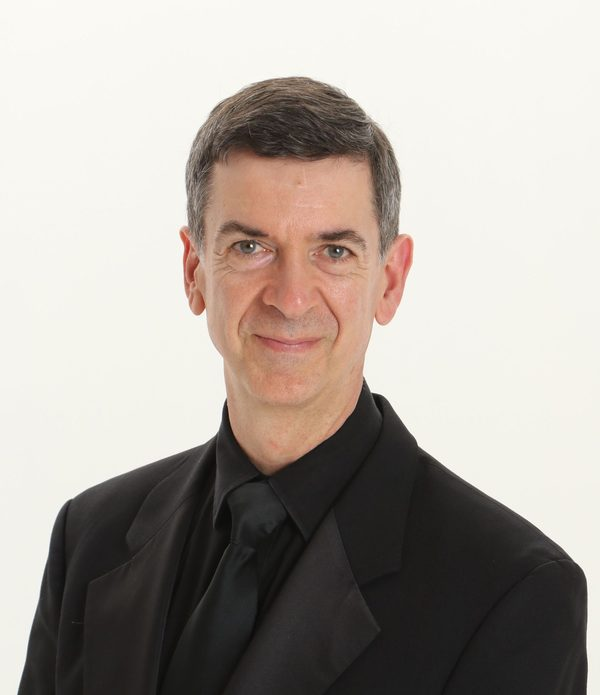
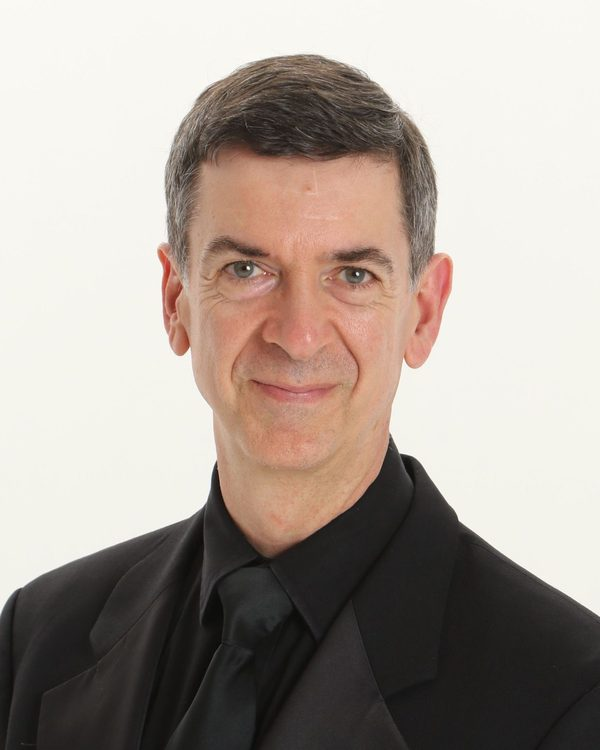
About page: matched 4:5 headshots for Chris and Margaret (#32)
Claude-Session: https://claude.ai/code/session_01LuDoopjZpYBXNdmNXvLcmv

diff --git a/index.html b/index.html
@@ -12,7 +12,7 @@
 <link rel="icon" type="image/svg+xml" href="favicon.svg">
 <link rel="stylesheet" href="https://fonts.googleapis.com/css2?family=DM+Serif+Display&family=Playfair+Display:wght@600;700&family=Bricolage+Grotesque:opsz,wght@12..96,500;12..96,700&family=Atkinson+Hyperlegible:ital,wght@0,400;0,700;1,400&display=swap">
 <style>
-.bio{display:flex;gap:20px;align-items:flex-start}.bio img{width:180px;height:auto;flex:none;border-radius:8px}.bio p{margin-top:0}@media (max-width:560px){.bio{flex-direction:column}.bio img{width:160px}}
+.bio{display:flex;gap:20px;align-items:flex-start}.bio img{width:180px;height:auto;aspect-ratio:4/5;object-fit:cover;flex:none;border-radius:8px}.bio p{margin-top:0}@media (max-width:560px){.bio{flex-direction:column}.bio img{width:160px}}
 /* Layout: sticky top bar, centered 1120px column, card grids that collapse to one column on phones */
 :root{
   --bg:#F4F6F3; --surface:#FFFFFF; --ink:#18231F; --muted:#56635D; --line:#DCE2DD;
@@ -485,8 +485,8 @@ function about(){
   app.innerHTML=`<h1>About</h1>
   <div style="display:grid;gap:16px;max-width:44em;margin-top:16px">
   <p class="lead muted">StringEducation.org shares free, classroom-tested resources for string orchestra teachers, many of them companions to <i>Music Theory for the Successful String Musician</i> and the <i>Habits of a Successful String Musician</i> series from GIA Publications.</p>
-  <h2 style="margin-top:16px">Christopher Selby</h2><div class="bio"><img src="files/about/christopher-selby.jpg" width="600" height="695" alt="Dr. Christopher Selby" loading="lazy"><p>Dr. Christopher Selby is the author of <i>Habits of a Successful Orchestra Director</i> and <i>Music Theory for the Successful String Musician</i>, and lead author of the <i>Habits of a Successful String Musician</i> method series, published by GIA. He received ASTA’s Elizabeth A. H. Green Award and has presented clinics and sessions across the United States, Canada and Australia. A sought-after conductor of regional and all-state orchestras nationwide, he directs the high school orchestras at the Charleston County School of the Arts in South Carolina. His orchestras have performed at the Midwest Clinic multiple times and have twice been named Grand Champion at ASTA’s National Orchestra Festival. He holds a music education degree from the Hartt School and master’s and doctoral degrees in orchestral conducting from the University of South Carolina.</p></div>
-  <h2 style="margin-top:16px">Margaret Selby</h2><div class="bio"><img src="files/about/margaret-selby.jpg" width="600" height="754" alt="Mrs. Margaret Selby" loading="lazy"><p>Margaret Selby is the orchestra director at Laing Middle School in Charleston, SC. She is coauthor of the <i>Habits of a Successful Young String Musician</i> Books 1 and 2, and a contributing author of <i>Rehearsing the Middle School Orchestra</i>. Mrs. Selby has conducted for the Interlochen Arts Camp, All-State, Region, and Honor Orchestras, and judged the National Orchestra Festival. She has presented for conferences including the Midwest Clinic, ASTA, many state conferences and was the 2022 TMEA Featured Clinician for the Orchestra Division.</p></div>
+  <h2 style="margin-top:16px">Christopher Selby</h2><div class="bio"><img src="files/about/christopher-selby.jpg" width="600" height="750" alt="Dr. Christopher Selby" loading="lazy"><p>Dr. Christopher Selby is the author of <i>Habits of a Successful Orchestra Director</i> and <i>Music Theory for the Successful String Musician</i>, and lead author of the <i>Habits of a Successful String Musician</i> method series, published by GIA. He received ASTA’s Elizabeth A. H. Green Award and has presented clinics and sessions across the United States, Canada and Australia. A sought-after conductor of regional and all-state orchestras nationwide, he directs the high school orchestras at the Charleston County School of the Arts in South Carolina. His orchestras have performed at the Midwest Clinic multiple times and have twice been named Grand Champion at ASTA’s National Orchestra Festival. He holds a music education degree from the Hartt School and master’s and doctoral degrees in orchestral conducting from the University of South Carolina.</p></div>
+  <h2 style="margin-top:16px">Margaret Selby</h2><div class="bio"><img src="files/about/margaret-selby.jpg" width="600" height="750" alt="Mrs. Margaret Selby" loading="lazy"><p>Margaret Selby is the orchestra director at Laing Middle School in Charleston, SC. She is coauthor of the <i>Habits of a Successful Young String Musician</i> Books 1 and 2, and a contributing author of <i>Rehearsing the Middle School Orchestra</i>. Mrs. Selby has conducted for the Interlochen Arts Camp, All-State, Region, and Honor Orchestras, and judged the National Orchestra Festival. She has presented for conferences including the Midwest Clinic, ASTA, many state conferences and was the 2022 TMEA Featured Clinician for the Orchestra Division.</p></div>
   <h2 style="margin-top:16px">Advocacy</h2><p>Research and talking points for keeping music in your school.</p>
   <ul><li><a href="https://www.artsedsearch.org/" target="_blank" rel="noopener">ArtsEdSearch</a>: research on the educational outcomes of arts learning.</li></ul>
   <h2 style="margin-top:16px">Contact</h2><p>Comments, questions and ideas are always welcome: <b style="user-select:all">string.ed.editor@gmail.com</b></p>
